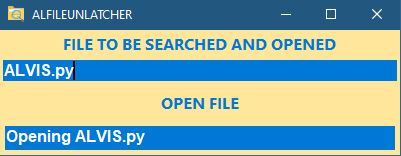
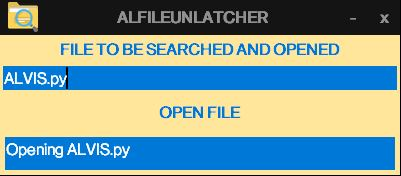
AlFileUnlatcher

diff --git a/AlFileUnlatcher.py b/AlFileUnlatcher.py
@@ -2,6 +2,7 @@ import subprocess, re, os
 from tkinter import*
 from tkinter import font
 import pyttsx3
+from PIL import ImageTk, Image
 
 cwd = os.path.dirname(os.path.realpath(__file__))
 
@@ -9,11 +10,26 @@ class AlFileUnlatcher():
     
     def __init__(self):
         root = Tk(className = " ALFILEUNLATCHER ")
-        root.geometry("400x125+1500+890")
+        root.geometry("400x175+1500+840")
         root.resizable(0,0)
         root.iconbitmap(os.path.join(cwd+'\\UI\\icons', 'alfileunlatcher.ico'))
         root.config(bg="#ffe69b")
+        root.overrideredirect(1)
         color = '#ffe69b'
+
+        def callback(event):
+            root.geometry("360x100+1550+915")
+
+        def showScreen(event):
+            root.deiconify()
+            root.overrideredirect(1)
+
+        def screenAppear(event):
+            root.overrideredirect(1)
+
+        def hideScreen():
+            root.overrideredirect(0)
+            root.iconify()
 
         def speak(audio):
             engine = pyttsx3.init('sapi5')
@@ -69,24 +85,49 @@ class AlFileUnlatcher():
                         text.insert(1.0, 'Set a default application to open the input file')
                         speak('Set a default application to open the input file')
 
-        appHighlightFont = font.Font(family='sans-serif', size=12, weight='bold')
-        textHighlightFont = font.Font(family='Segoe UI', size=12, weight='bold')
+        textHighlightFont = font.Font(family='OnePlus Sans Display', size=12)
+        appHighlightFont = font.Font(family='OnePlus Sans Display', size=12, weight='bold')
+
+        #title bar
+        titleBar = Frame(root, bg='#141414', relief=SUNKEN, bd=0)
+        icon = Image.open(os.path.join(cwd+'\\UI\\icons', 'alfileunlatcher.ico'))
+        icon = icon.resize((30,30), Image.ANTIALIAS)
+        icon = ImageTk.PhotoImage(icon)
+        iconLabel = Label(titleBar, image=icon)
+        iconLabel.photo = icon
+        iconLabel.config(bg='#141414')
+        iconLabel.grid(row=0,column=0,sticky="nsew")
+        titleLabel = Label(titleBar, text='ALFILEUNLATCHER', fg='#909090', bg='#141414', font=appHighlightFont)
+        titleLabel.grid(row=0,column=1,sticky="nsew")
+        closeButton = Button(titleBar, text="x", bg='#141414', fg="#909090", borderwidth=0, command=root.destroy, font=appHighlightFont)
+        closeButton.grid(row=0,column=3,sticky="nsew")
+        minimizeButton = Button(titleBar, text="-", bg='#141414', fg="#909090", borderwidth=0, command=hideScreen, font=appHighlightFont)
+        minimizeButton.grid(row=0,column=2,sticky="nsew")
+        titleBar.grid_columnconfigure(0,weight=1)
+        titleBar.grid_columnconfigure(1,weight=10)
+        titleBar.grid_columnconfigure(2,weight=1)
+        titleBar.grid_columnconfigure(3,weight=1)
+        titleBar.pack(fill=X)
 
         #file widget
         fileText = Label(root, text="FILE TO BE SEARCHED AND OPENED")
         fileText.pack()
-        fileText.config(bg=color,fg="#0078d7",font=textHighlightFont)
-        fileText= Entry(root, bg="#0078d7", fg='white', highlightbackground=color, highlightcolor=color, highlightthickness=3, bd=0,font=appHighlightFont)
+        fileText.config(bg=color,fg="#0078d7",font=appHighlightFont)
+        fileText= Entry(root, bg="#0078d7", fg='white', highlightbackground=color, highlightcolor=color, highlightthickness=3, bd=0,font=textHighlightFont)
         fileText.pack(fill=X)
 
         #submit button
         find = Button(root, borderwidth=0, highlightthickness=3, text="OPEN FILE", command=find)
-        find.config(bg=color,fg="#0078d7",font=textHighlightFont)
+        find.config(bg=color,fg="#0078d7",font=appHighlightFont)
         find.pack(fill=X)
 
         text = Text(root, font="sans-serif",  relief=SUNKEN , highlightbackground=color, highlightcolor=color, highlightthickness=5, bd=0)
-        text.config(bg="#0078d7", fg='white', height=2, font=appHighlightFont)
+        text.config(bg="#0078d7", fg='white', height=2, font=textHighlightFont)
         text.pack(fill=BOTH, expand=True)
+
+        titleBar.bind("<B1-Motion>", callback)
+        titleBar.bind("<Button-3>", showScreen)
+        titleBar.bind("<Map>", screenAppear)
 
         root.mainloop()
 
